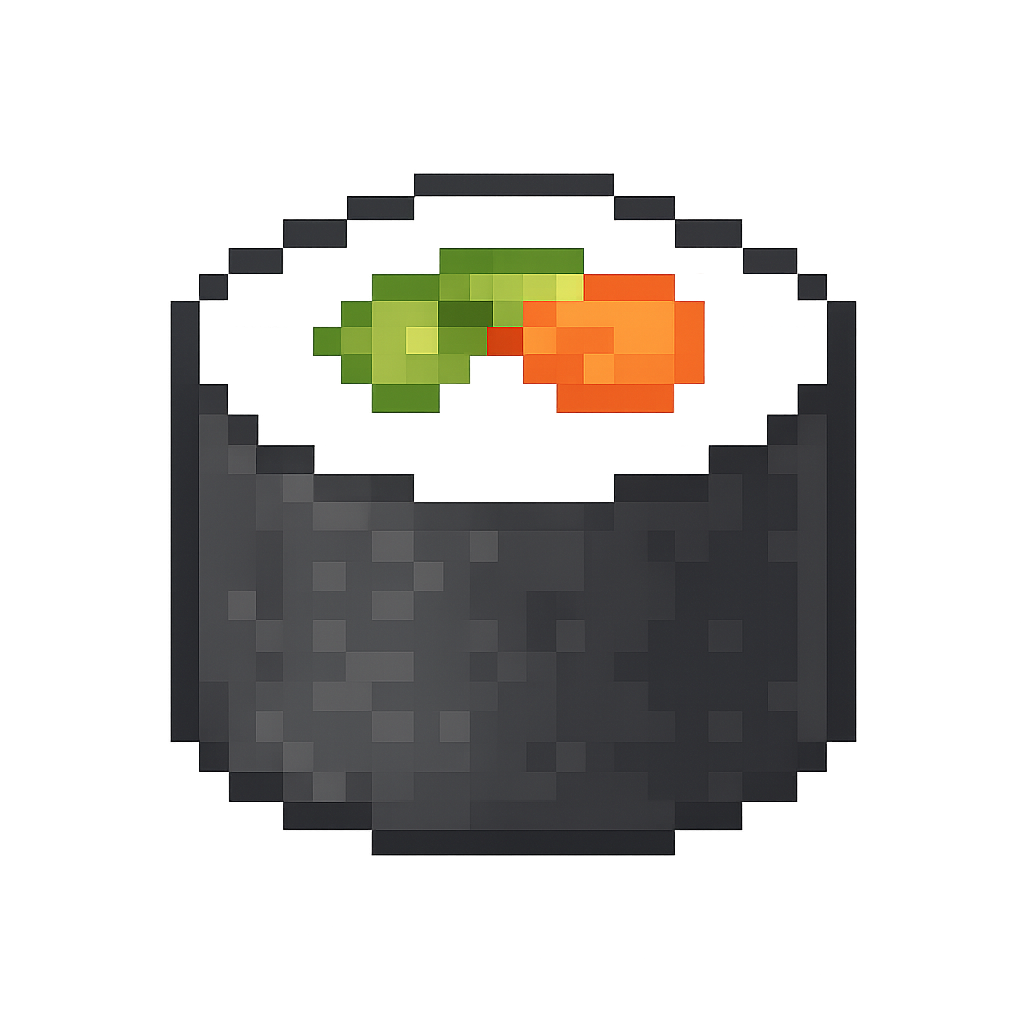
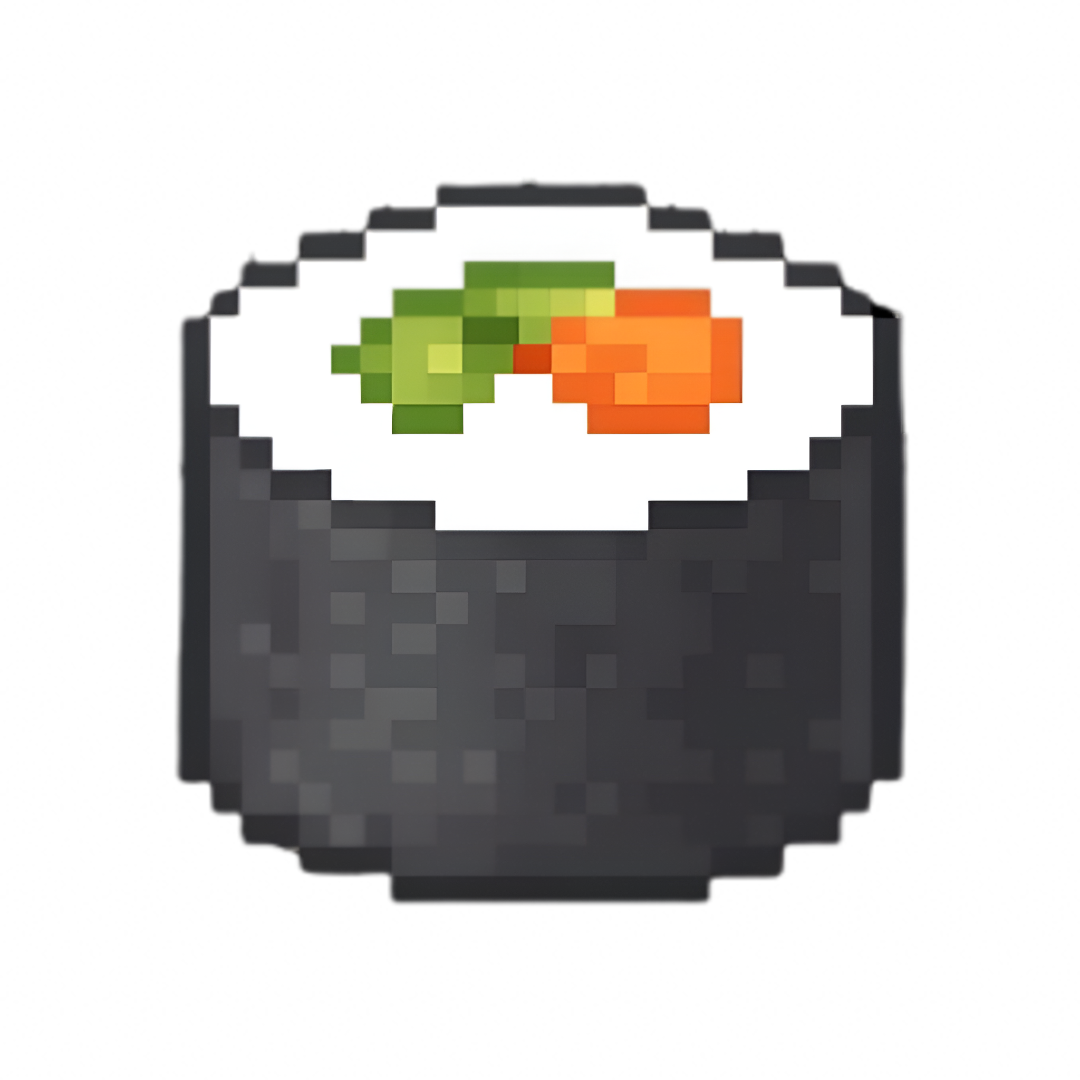
resolve sushis background bug
je suis allée sur ibis paint et g supp le background a la main puis jai pris limage sans le fond et après je l'ai resizé mais ca a pas trop marché mais le pirncipal cest quon le voit pas et que mtn on peut changer la couleur du fond sans impacter la couleur du riz. jai aussi amélioré la qualité de l'image du sushi. J'ai changé la couleur du. background et la couleur du h1

diff --git a/style.css b/style.css
@@ -5,12 +5,12 @@ body {
     justify-content: center; /* centre verticalement si hauteur prise en compte */
     min-height: 100vh;
     margin: 0;
-    background-color: pink;
+    background-color: rgb(248, 213, 239);
 }
 
 h1{
     font-family: monospace;
-    color: rgb(167, 208, 244);
+    color: rgb(161, 207, 247);
     font-size: 35px;
 }
 
